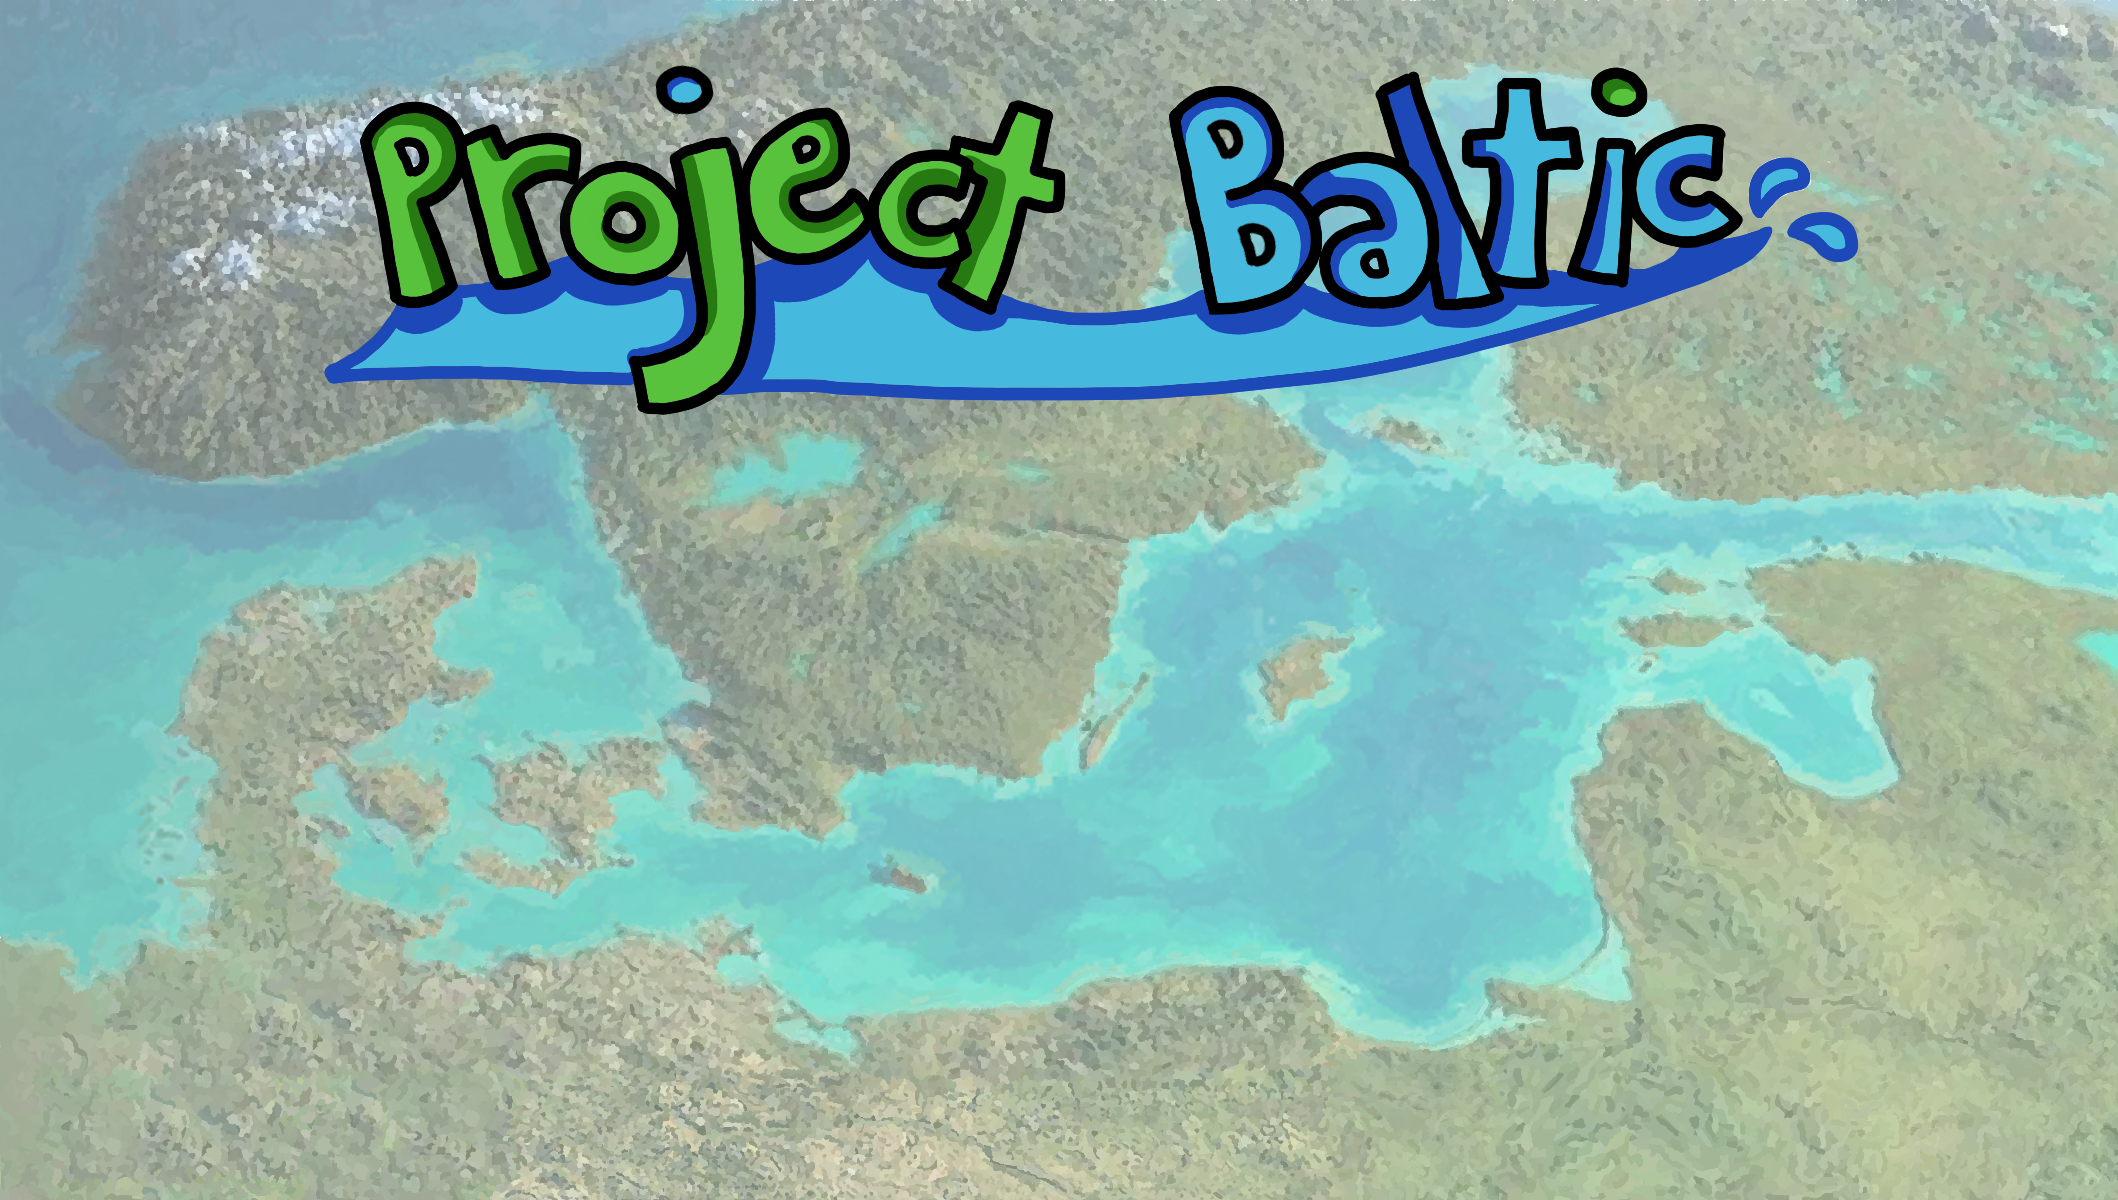
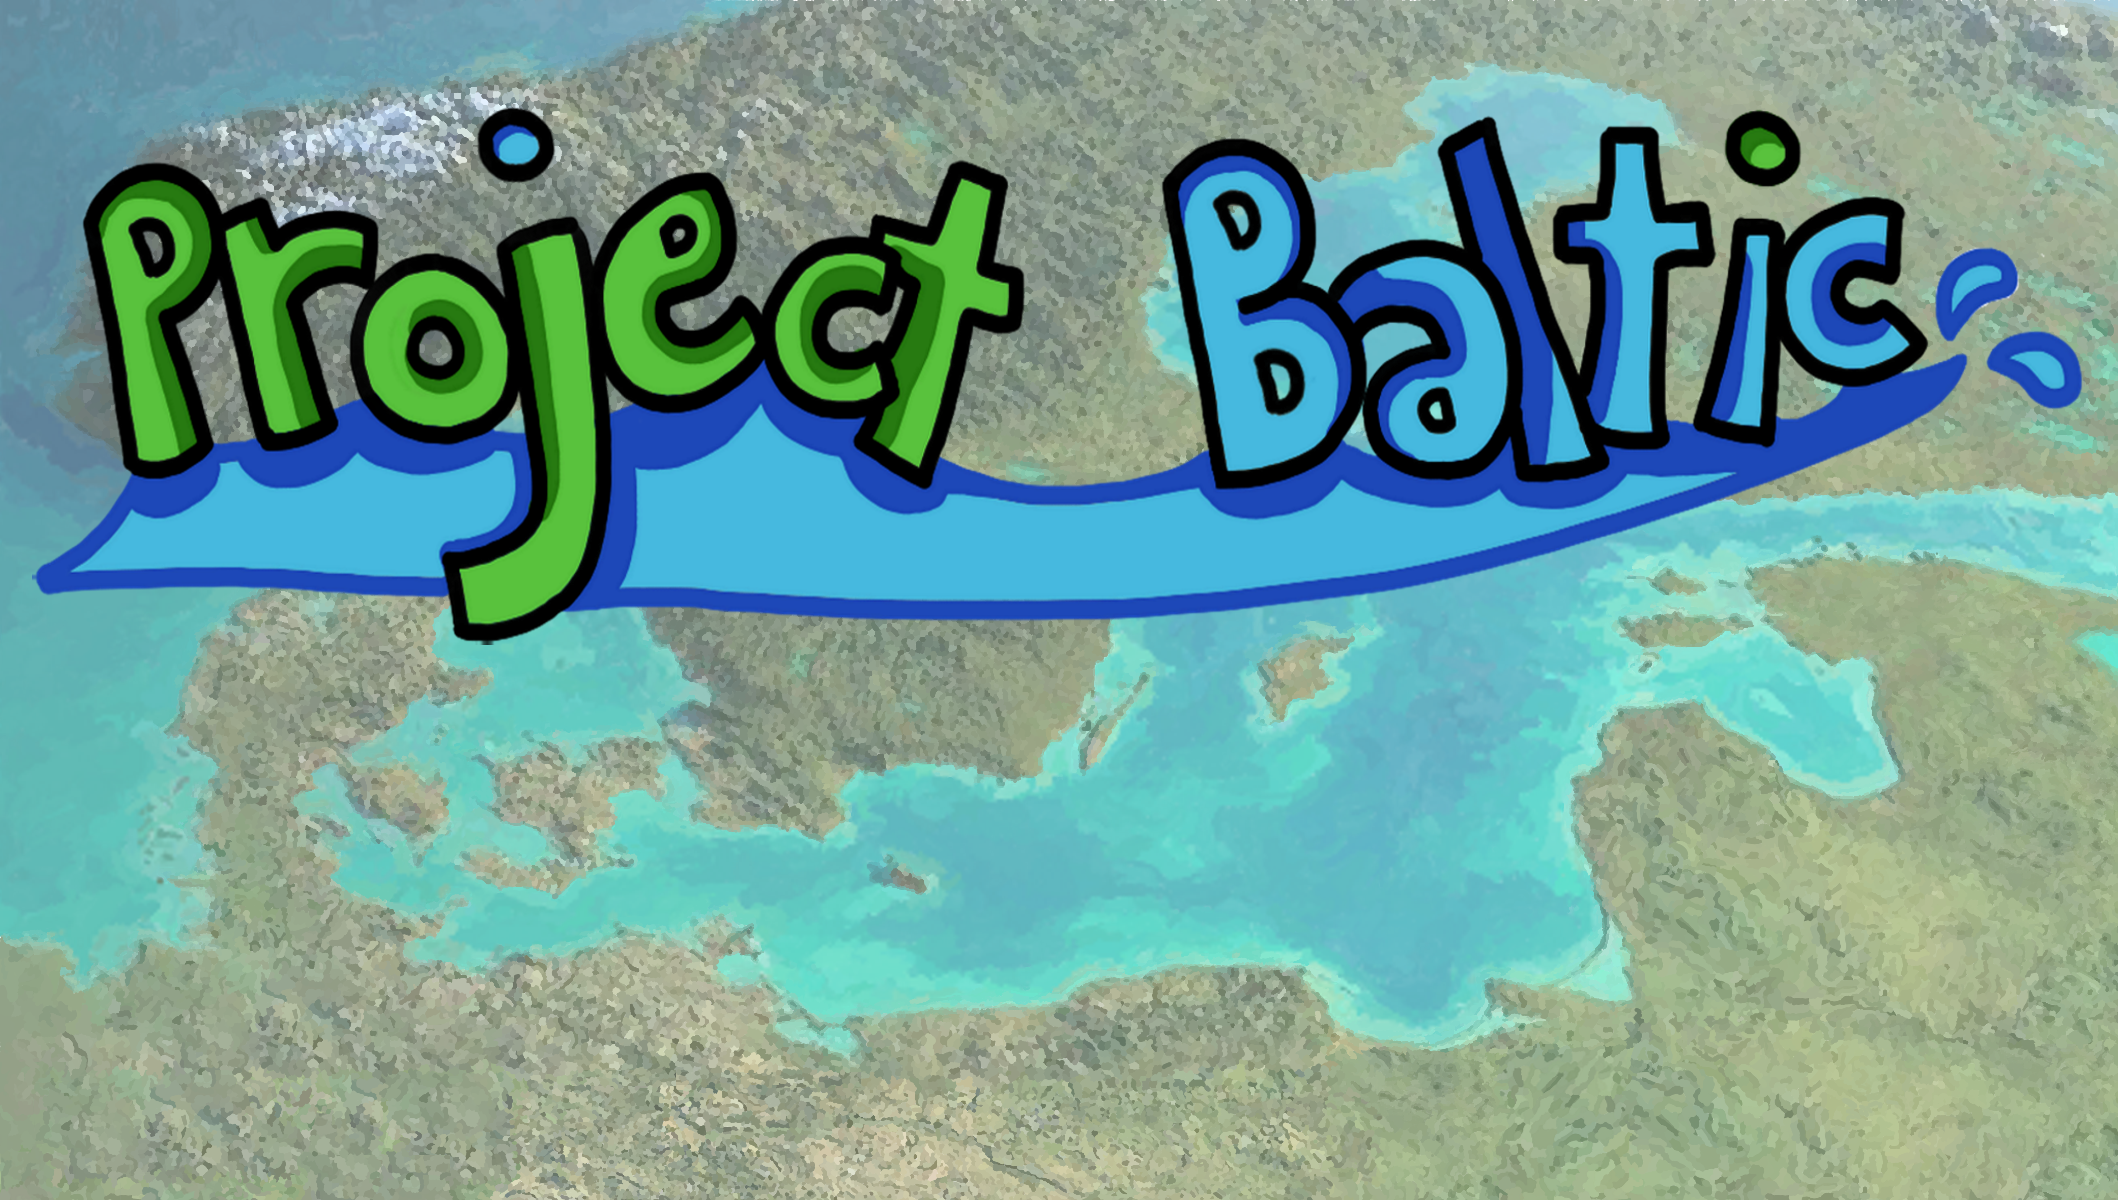
clouds and new start screen

Changed region(s): [[0.0, 0.0308, 0.9972, 0.555]]

diff --git a/core/src/com/mygdx/game/MapScreen.java b/core/src/com/mygdx/game/MapScreen.java
@@ -49,6 +49,11 @@ public class MapScreen extends ApplicationAdapter implements Screen {
     private Boat boat2;
     private MoneyButton boatCoins2;
 
+    private Cloud cloud;
+    private Cloud cloud2;
+    private Cloud cloud3;
+    private Cloud cloud4;
+
     MapScreen(Main m) {
 
         main = m;
@@ -93,8 +98,14 @@ public class MapScreen extends ApplicationAdapter implements Screen {
             }
         });
 
+        cloud = new Cloud(-540, 0, 900);
+        cloud2 = new Cloud(-600, -150, 1100);
+        cloud3 = new Cloud(-600, -500, 800);
+        cloud4 = new Cloud(30, -40, 900);
+
         addActorsToStage();
         addCoinsToStage();
+        addCloudsToStage();
 
         ((OrthographicCamera)camera).zoom += 27f;
     }
@@ -108,10 +119,19 @@ public class MapScreen extends ApplicationAdapter implements Screen {
         stage.addActor(research);
         stage.addActor(meter);
 
+        addBoatsToStage();
+
         for(int i=0; i<actorAmount; i++) {
             stage.addActor(farms.get(i));
         }
         stage.addActor(coins.get(0));
+    }
+
+    private void addCloudsToStage() {
+        stage.addActor(cloud);
+        stage.addActor(cloud2);
+        stage.addActor(cloud3);
+        stage.addActor(cloud4);
     }
 
     static boolean [] getCoinAdded() {
@@ -199,6 +219,11 @@ public class MapScreen extends ApplicationAdapter implements Screen {
         Gdx.gl.glClearColor(0, 0, 0, 1);
         Gdx.gl.glClear(GL20.GL_COLOR_BUFFER_BIT);
 
+        cloud.cloudMove();
+        cloud2.cloudMove();
+        cloud3.cloudMove();
+        cloud4.cloudMove();
+
         if(Tutorial.tutorial_1 && Tutorial.tutorial) {
             hideIconsTutorial_1();
             manageTutorial_1();
@@ -224,8 +249,6 @@ public class MapScreen extends ApplicationAdapter implements Screen {
                 tutorial_3_Actors[j].setVisible(false);
             }
         }
-
-        addBoatsToStage();
 
         stage.draw();
         stage.act(Gdx.graphics.getDeltaTime());

diff --git a/core/src/com/mygdx/game/Cloud.java b/core/src/com/mygdx/game/Cloud.java
@@ -1,0 +1,52 @@
+package com.mygdx.game;
+
+import com.badlogic.gdx.Gdx;
+import com.badlogic.gdx.graphics.Texture;
+import com.badlogic.gdx.graphics.g2d.Batch;
+import com.badlogic.gdx.math.MathUtils;
+import com.badlogic.gdx.scenes.scene2d.Actor;
+
+
+public class Cloud extends Actor {
+
+    private int originalX;
+    private int originalY;
+    private Texture cloudTexture;
+    private float cloudSpeedX;
+    private float cloudSpeedY;
+    private float x;
+    private float y;
+    private float maxDistance;
+
+    public Cloud(int a, int b, float max) {
+
+        originalX = a;
+        originalY = b;
+        int random = MathUtils.random(3, 6);
+        cloudSpeedX = 0.4f;
+        cloudSpeedY = 0.2f;
+        maxDistance = max;
+        x = a;
+        y = b;
+        cloudTexture = new Texture(Gdx.files.internal("clouds/cloud" + MathUtils.random(1, 5) + ".png"));
+        setX(a);
+        setY(b);
+        setWidth(cloudTexture.getWidth() / random);
+        setHeight(cloudTexture.getHeight() / random);
+    }
+
+    public void cloudMove() {
+
+        this.x += cloudSpeedX;
+        this.y += cloudSpeedY;
+        if (this.x >= maxDistance) {
+            this.x = originalX;
+            this.y = originalY;
+        }
+    }
+
+    public void draw(Batch batch, float alpha) {
+
+        batch.draw(this.cloudTexture, this.x, this.y, this.getWidth(), this.getHeight());
+    }
+}

diff --git a/core/src/com/mygdx/game/Save.java b/core/src/com/mygdx/game/Save.java
@@ -15,7 +15,7 @@ public class Save {
     private static int [] maxAmount = MoneyButton.getMaxAmount();
     private static float [][] farmActorY = FarmScreen.getFarmActorYArray();
 
-    private static Preferences prefs = Gdx.app.getPreferences("balticproject_savefile2");
+    private static Preferences prefs = Gdx.app.getPreferences("balticproject_savefile3");
 
     private static int farmAmount = 4;
     private static int researchAmount = 19;
@@ -72,7 +72,7 @@ public class Save {
 
     public static void loadVariables() {
 
-        Main.setMoney(prefs.getInteger("money", 6000000));
+        Main.setMoney(prefs.getInteger("money", 7000));
         Main.setGameBegan(prefs.getBoolean("gameBegan"));
         Main.setBalticSituation(prefs.getInteger("balticSituation"));
         Tutorial.tutorial = prefs.getBoolean("tutorial", true);
@@ -132,7 +132,7 @@ public class Save {
 
     static void newGame() {
 
-        prefs.putInteger("money", 6000000);
+        prefs.putInteger("money", 7000);
         prefs.putBoolean("gameBegan", false);
         prefs.putInteger("balticSituation", 0);
 

diff --git a/core/src/com/mygdx/game/MainMenuButton.java b/core/src/com/mygdx/game/MainMenuButton.java
@@ -50,7 +50,7 @@ public class MainMenuButton extends Actor {
 
         textButton = new TextButton(label, main.getMySkin());
         textButton.setSize(getWidth(), getHeight());
-        textButton.setPosition(800 / 2f - getWidth() / 2f, 450 / 2f - getHeight() / 2f - index * getHeight());
+        textButton.setPosition(800 / 2f - getWidth() / 2f, 450 / 3f - getHeight() / 2f - index * getHeight());
         textButton.addListener(new InputListener() {
             @Override
             public boolean touchDown (InputEvent event, float x, float y, int pointer, int button) {

diff --git a/core/src/com/mygdx/game/OptionsScreen.java b/core/src/com/mygdx/game/OptionsScreen.java
@@ -30,7 +30,7 @@ public class OptionsScreen implements Screen {
         batch = main.getBatch();
         stage = new Stage(new FitViewport(800, 450), batch);
 
-        background = new Background(new Texture(Gdx.files.internal("startscreen.png")));
+        background = new Background(new Texture(Gdx.files.internal("startscreen2.png")));
         background.setSize(800, 450);
 
         createButtons();
